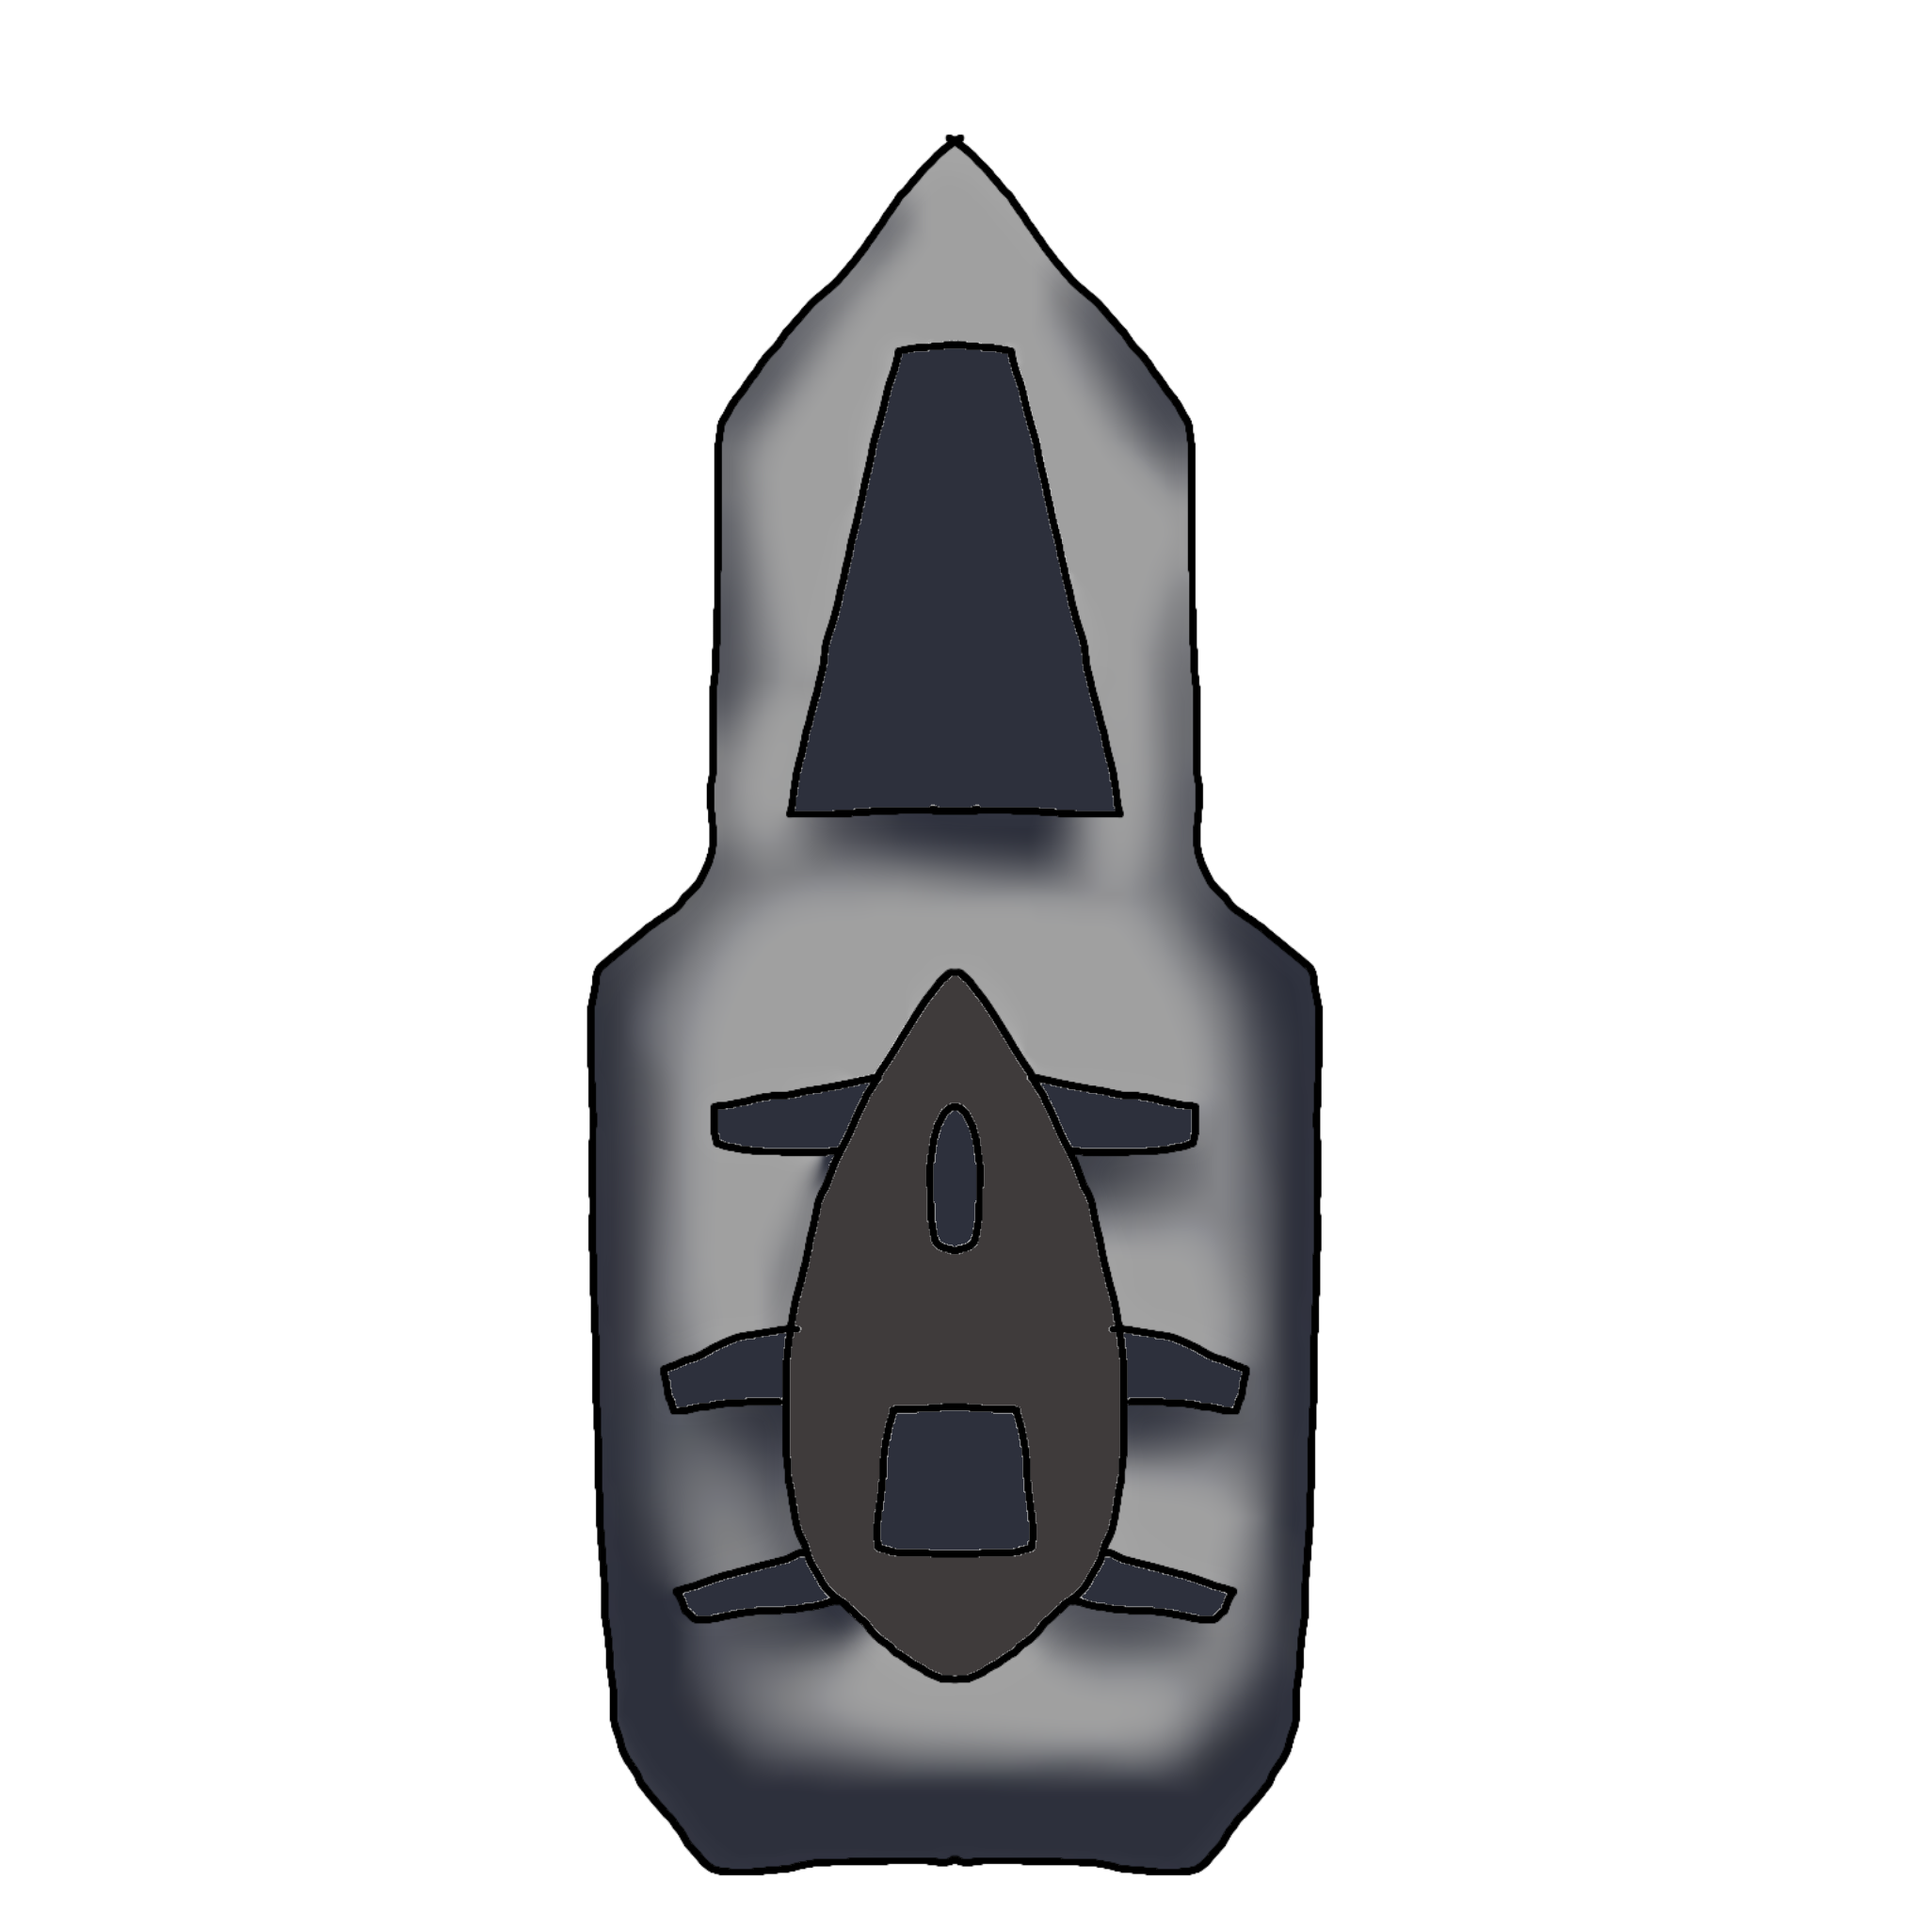
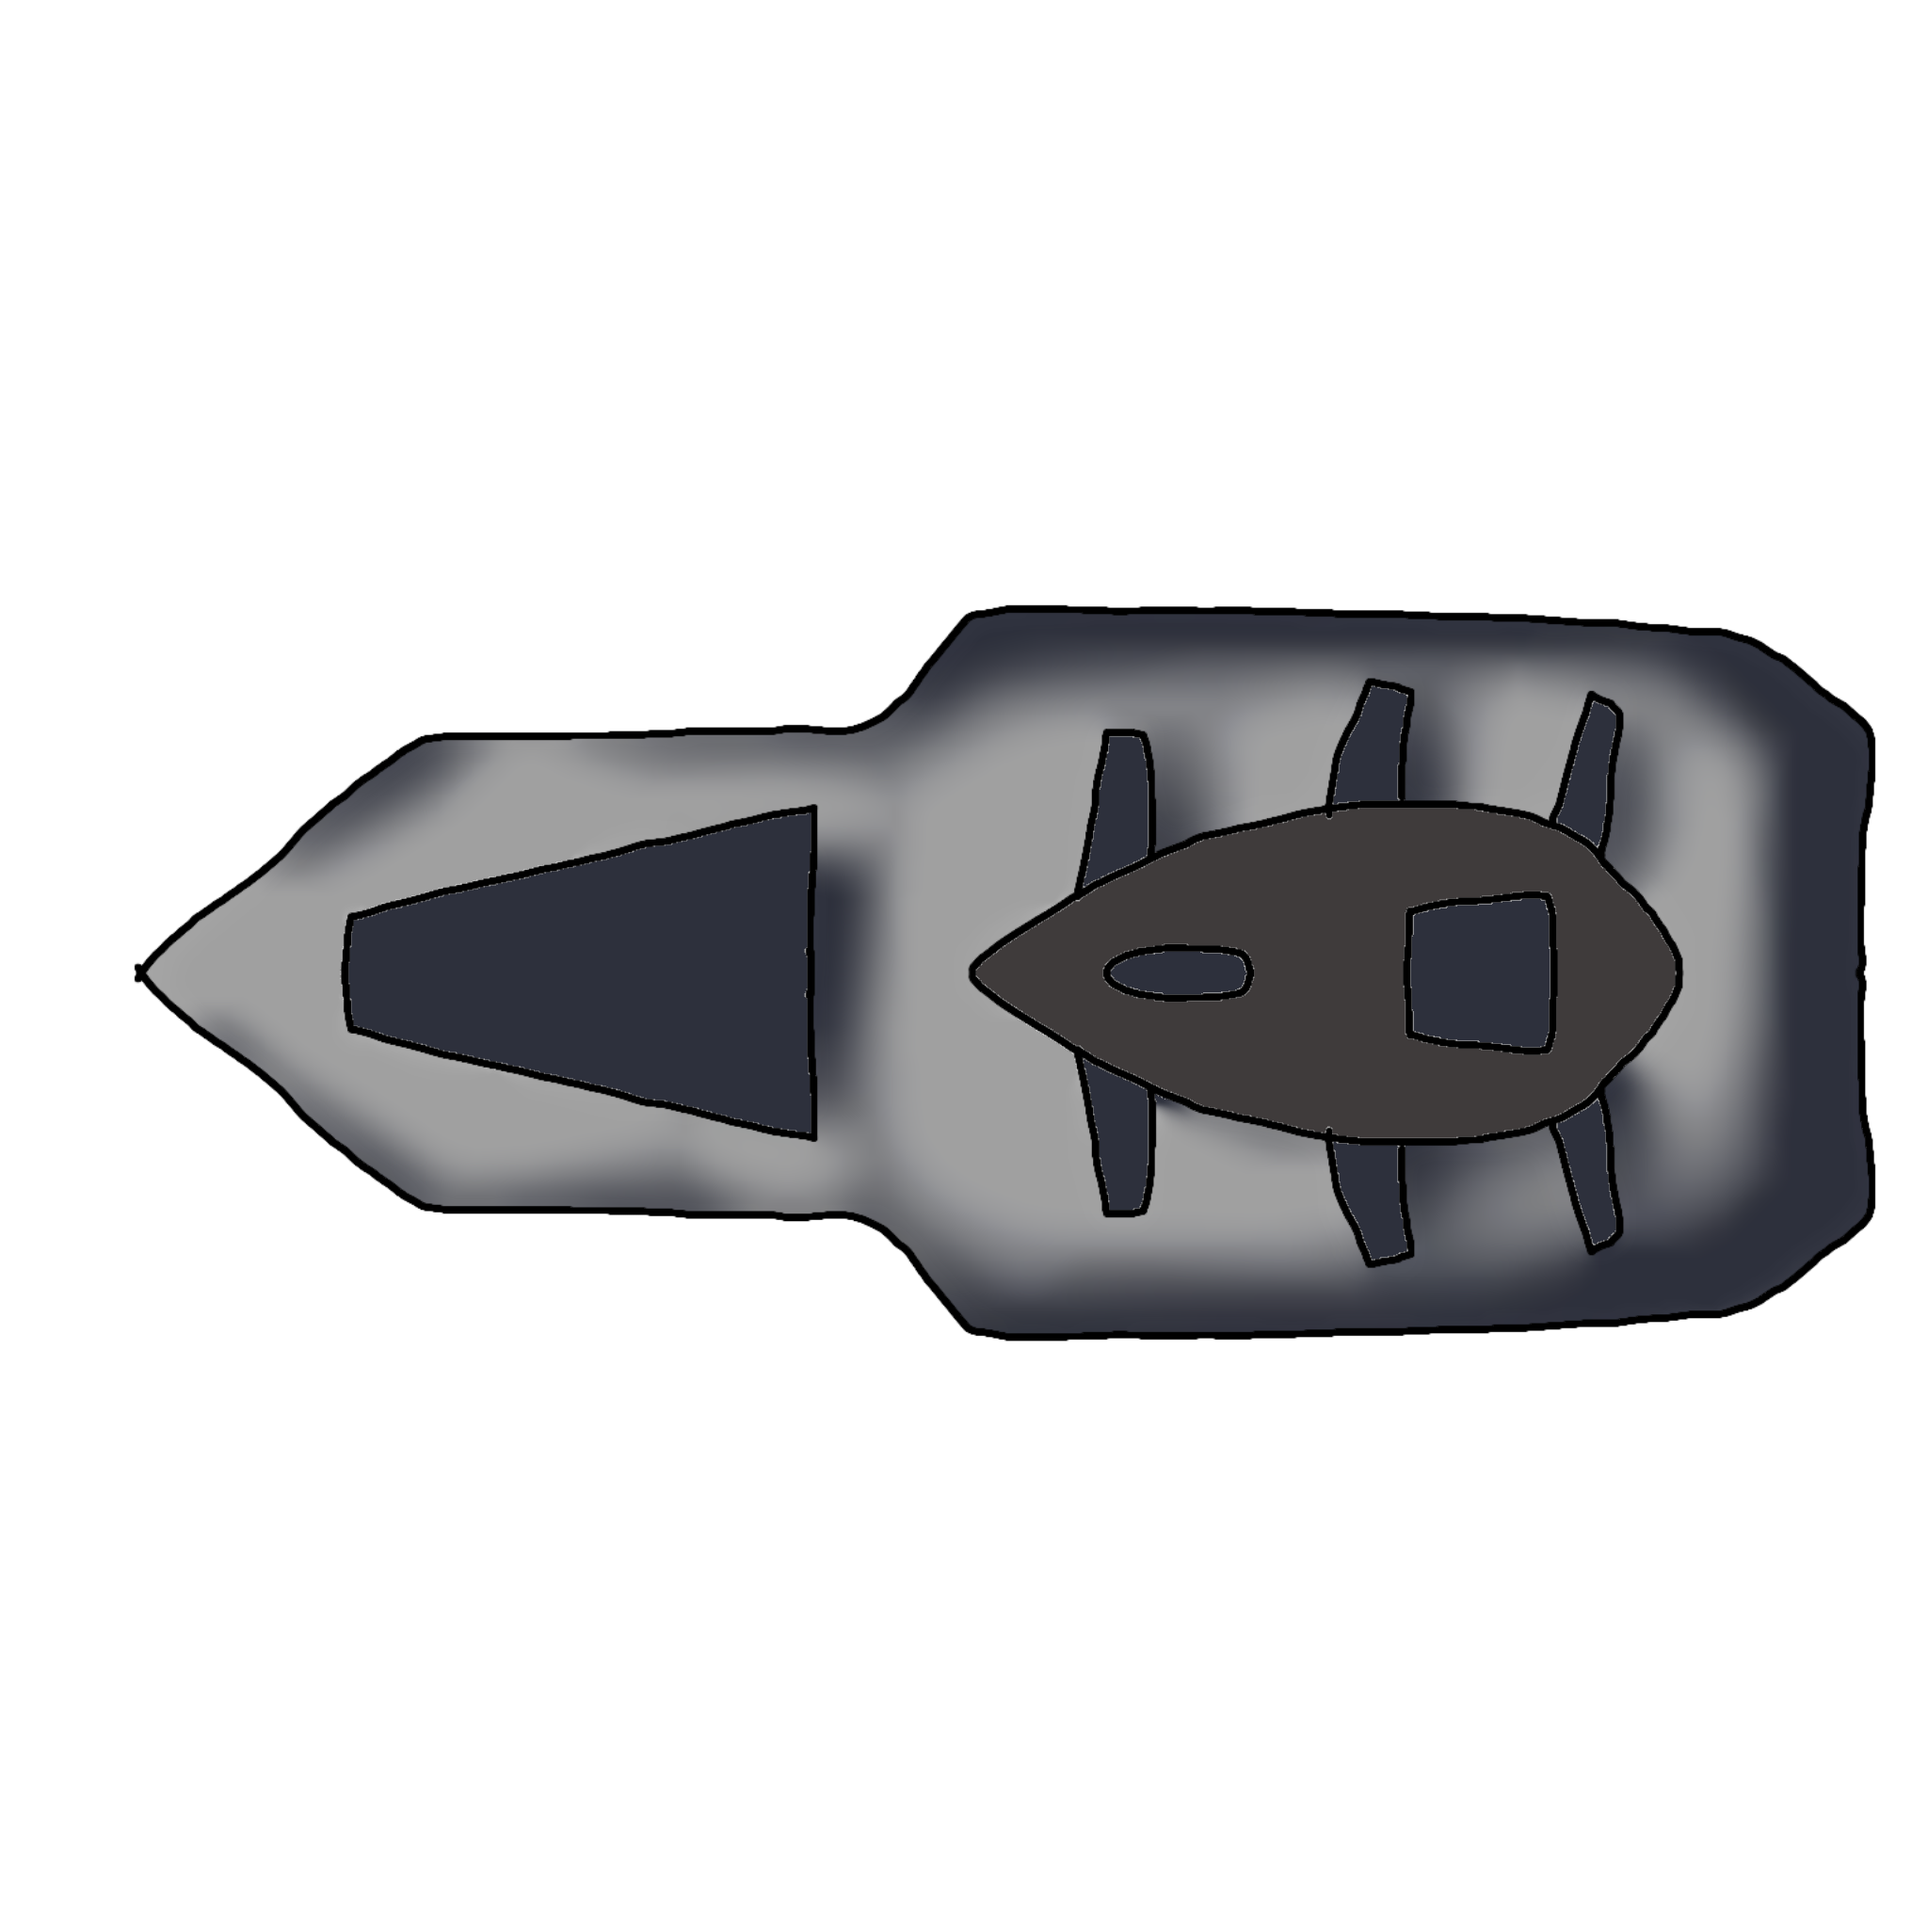
Hajó lerakás jelölő

diff --git a/torpedo/Scripts/Hajo_Interakcio.cs b/torpedo/Scripts/Hajo_Interakcio.cs
@@ -9,7 +9,7 @@ public partial class Hajo_Interakcio : Control
 	public int RacsX { get; private set; } = -1;
 	public int RacsY { get; private set; } = -1;
 
-	private bool fuggoleges;
+	private bool fuggoleges = false;
 	private bool huzasban;
 	private bool lehelyezve;
 
@@ -28,8 +28,7 @@ public partial class Hajo_Interakcio : Control
 		if (Tabla == null)
 			return;
 
-		if (Tabla.TryGetCellAtGlobalPosition(
-			GlobalPosition, out int x, out int y))
+		if (Tabla.TryGetCellAtGlobalPosition(GlobalPosition, out int x, out int y))
 		{
 			Tabla.MutatElohelyezest(x, y, Hossz, fuggoleges);
 		}
@@ -38,7 +37,6 @@ public partial class Hajo_Interakcio : Control
 			Tabla.ElojelzesTorlese();
 		}
 	}
-
 	public override void _GuiInput(InputEvent @event)
 	{
 		if (lehelyezve)
@@ -78,6 +76,9 @@ public partial class Hajo_Interakcio : Control
 		{
 			fuggoleges = !fuggoleges;
 			Rotation = fuggoleges ? Mathf.Pi / 2 : 0;
+
+			// itt a Control bal felső sarka marad a kezdőpont
+			// ne a sprite közepét használd
 			FrissitElojelzest();
 			GetViewport().SetInputAsHandled();
 			return;
@@ -88,24 +89,16 @@ public partial class Hajo_Interakcio : Control
 			!mouse.Pressed)
 		{
 			huzasban = false;
-			GetViewport().SetInputAsHandled();
 
 			if (Tabla != null &&
 				Tabla.TryGetCellAtGlobalPosition(GlobalPosition, out int x, out int y) &&
 				Tabla.Hajo_lehelyezes(x, y, Hossz, fuggoleges))
 			{
-				RacsX = x;
-				RacsY = y;
 				GlobalPosition = Tabla.GetCellGlobalPosition(x, y);
 				lehelyezve = true;
 			}
 			else
 			{
-				if (Tabla != null)
-				{
-					Tabla.ElojelzesTorlese();
-				}
-
 				GlobalPosition = elozoPozicio;
 				Rotation = elozoForgatas;
 				fuggoleges = elozoIrany;
